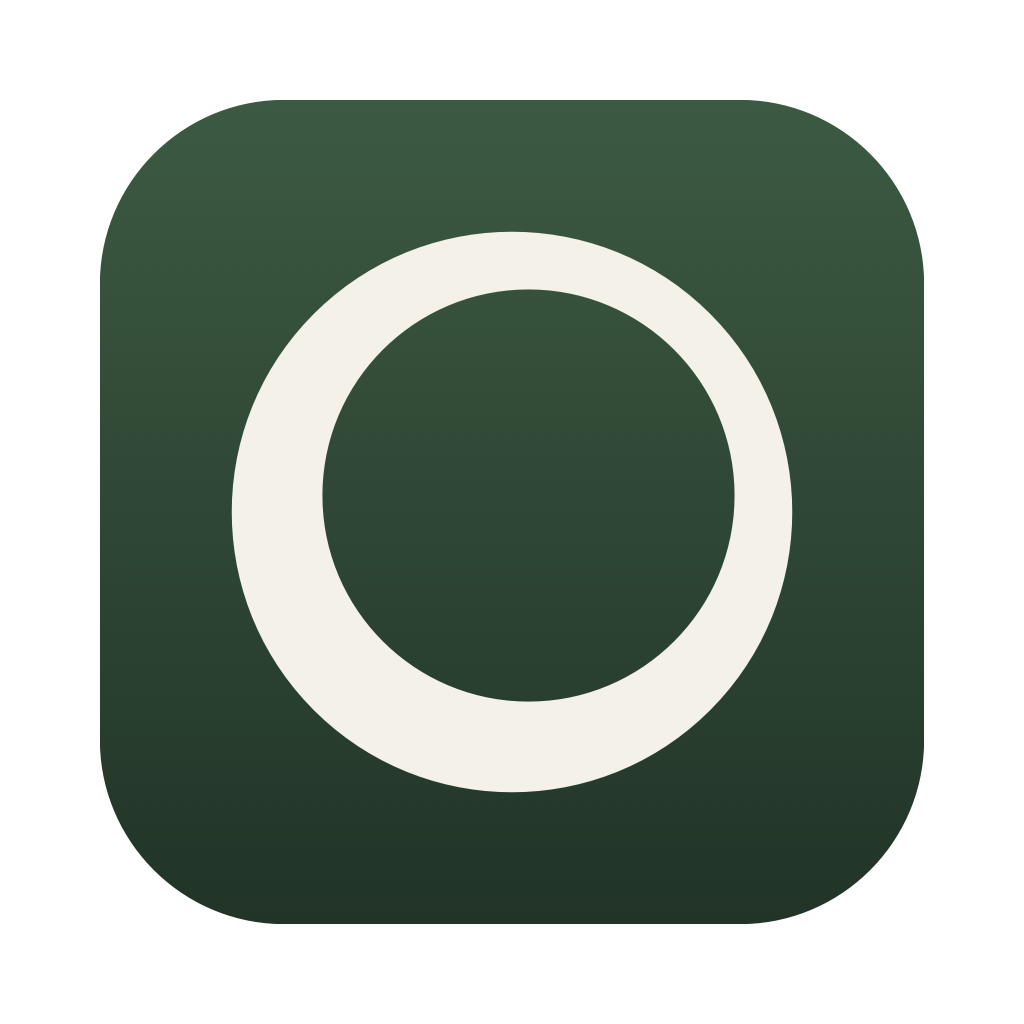
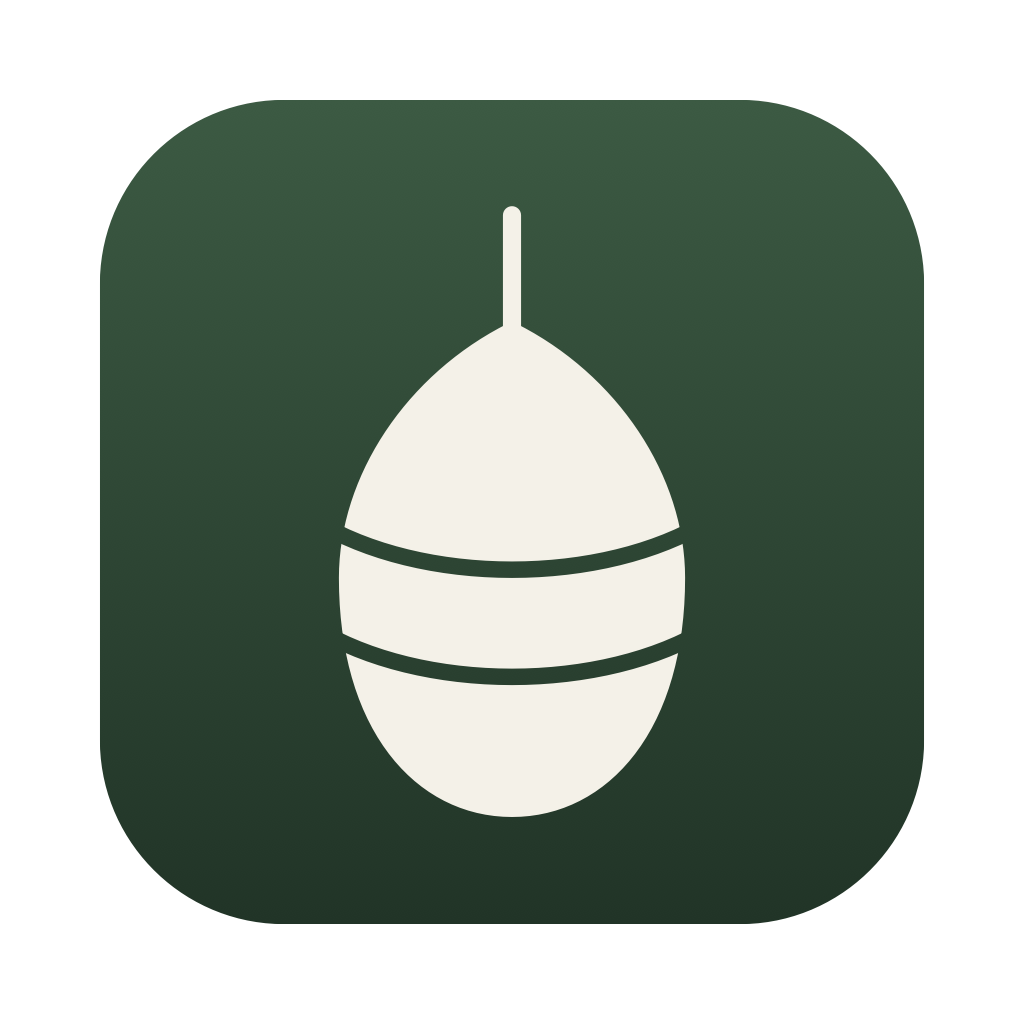
Replace the ring mark with the cocoon (D-014) (#6)
Nine witty candidates rendered as app icon + favicon product images
(dock and browser-tab mockups, favicon size ladder); the human chose the
cocoon: a pod hanging from a thread with two silk wraps -- "hatches
exactly when you need it". Wrap chords refined to curved bands that cross
the pod. All app icon and favicon sizes regenerate from the one script.
D-013 wording neutralized (stray flag references).

Changed region(s): [[0.2188, 0.1875, 0.7812, 0.75], [0.4062, 0.75, 0.5938, 0.8125]]

diff --git a/Scripts/render-icons.swift b/Scripts/render-icons.swift
@@ -1,6 +1,7 @@
 import AppKit
 
-// Regenerates every icon size from the Dormant mark (D-013). Run: swift Scripts/render-icons.swift
+// Regenerates every icon size from the Dormant mark (D-013 system, D-014 mark).
+// Run: swift Scripts/render-icons.swift
 
 let root = URL(fileURLWithPath: FileManager.default.currentDirectoryPath)
 
@@ -8,40 +9,24 @@ let paper = NSColor(srgbRed: 0.9569, green: 0.9451, blue: 0.9098, alpha: 1)
 let plateTop = NSColor(srgbRed: 0.2353, green: 0.3529, blue: 0.2627, alpha: 1)
 let plateBottom = NSColor(srgbRed: 0.1294, green: 0.2039, blue: 0.1529, alpha: 1)
 
-// Mark geometry in unit space (y measured from the top), before centering.
-// Two circles, like the first mark: a paper disc with an offset circular hole (eccentric ring).
-let moonRadius = 0.34
-let terminatorSemi = (x: 0.25, y: 0.25)
-var moonCenter = (x: 0.50, y: 0.51)
-var terminatorCenter = (x: 0.52, y: 0.49)
-
-func inMoon(_ x: Double, _ y: Double) -> Bool {
-  let dc = (x - moonCenter.x) * (x - moonCenter.x) + (y - moonCenter.y) * (y - moonCenter.y)
-  guard dc <= moonRadius * moonRadius else { return false }
-  let de = pow((x - terminatorCenter.x) / terminatorSemi.x, 2)
-    + pow((y - terminatorCenter.y) / terminatorSemi.y, 2)
-  return de > 1
-}
-
-// Shift the mark so its bounding box sits dead center of the plate.
-var minX = 1.0, maxX = 0.0, minY = 1.0, maxY = 0.0
-let steps = 200
-for i in 0..<steps {
-  for j in 0..<steps {
-    let x = (Double(i) + 0.5) / Double(steps)
-    let y = (Double(j) + 0.5) / Double(steps)
-    if inMoon(x, y) {
-      minX = min(minX, x)
-      maxX = max(maxX, x)
-      minY = min(minY, y)
-      maxY = max(maxY, y)
-    }
-  }
-}
-let shift = (x: 0.5 - (minX + maxX) / 2, y: 0.5 - (minY + maxY) / 2)
-moonCenter = (moonCenter.x + shift.x, moonCenter.y + shift.y)
-terminatorCenter = (terminatorCenter.x + shift.x, terminatorCenter.y + shift.y)
-print(String(format: "centering shift: %+.4f, %+.4f", shift.x, shift.y))
+// Mark geometry in unit space (y measured from the top): a cocoon hanging from a
+// thread — tapered pod with two wrap chords. Drawn bbox-centered.
+let threadTop = 0.14
+let threadBottom = 0.32
+let threadWidth = 0.022
+let podStart = (x: 0.50, y: 0.28)
+let podSegs: [((Double, Double), (Double, Double), (Double, Double))] = [
+  ((0.62, 0.34), (0.70, 0.46), (0.70, 0.58)),
+  ((0.70, 0.76), (0.61, 0.86), (0.50, 0.86)),
+  ((0.39, 0.86), (0.30, 0.76), (0.30, 0.58)),
+  ((0.30, 0.46), (0.38, 0.34), (0.50, 0.28)),
+]
+let podStroke = 0.02
+let chords = [0.54, 0.67]
+let chordSpan = (x0: 0.26, x1: 0.74)
+let chordLift = 0.03
+let chordSag = 0.05
+let chordWidth = 0.02
 
 enum Variant {
   case appIcon
@@ -84,32 +69,47 @@ func render(size: Int, variant: Variant) -> NSBitmapImageRep {
     NSPoint(x: origin + CGFloat(x) * side, y: origin + (1 - CGFloat(y)) * side)
   }
 
-  // Eclipse ring: paper disc with an offset circular bite cleared out
-  // in a transparency layer, so edges stay clean over the plate gradient.
+  // Cocoon: paper thread, paper pod, wrap chords cut out — all in one
+  // transparency layer, so edges stay clean over the plate gradient.
   NSGraphicsContext.saveGraphicsState()
   plate.addClip()
   ctx.cgContext.beginTransparencyLayer(auxiliaryInfo: nil)
 
-  let c = p(moonCenter.x, moonCenter.y)
-  let moon = NSBezierPath(
-    ovalIn: NSRect(
-      x: c.x - moonRadius * side, y: c.y - moonRadius * side,
-      width: 2 * moonRadius * side, height: 2 * moonRadius * side
-    )
-  )
-  paper.setFill()
-  moon.fill()
+  let thread = NSBezierPath()
+  thread.move(to: p(0.5, threadTop))
+  thread.line(to: p(0.5, threadBottom))
+  thread.lineCapStyle = .round
+  thread.lineWidth = threadWidth * side
+  paper.setStroke()
+  thread.stroke()
 
-  let terminatorRect = NSRect(
-    x: origin + CGFloat(terminatorCenter.x - terminatorSemi.x) * side,
-    y: origin + (1 - CGFloat(terminatorCenter.y + terminatorSemi.y)) * side,
-    width: CGFloat(2 * terminatorSemi.x) * side,
-    height: CGFloat(2 * terminatorSemi.y) * side
-  )
+  let pod = NSBezierPath()
+  pod.move(to: p(podStart.x, podStart.y))
+  for (c1, c2, end) in podSegs {
+    pod.curve(to: p(end.0, end.1), controlPoint1: p(c1.0, c1.1), controlPoint2: p(c2.0, c2.1))
+  }
+  pod.close()
+  pod.lineJoinStyle = .round
+  pod.lineWidth = podStroke * side
+  paper.setStroke()
+  pod.stroke()
+  paper.setFill()
+  pod.fill()
+
   ctx.cgContext.setBlendMode(.clear)
-  ctx.cgContext.addEllipse(in: terminatorRect)
-  ctx.cgContext.fillPath()
+  for y in chords {
+    let chord = NSBezierPath()
+    chord.move(to: p(chordSpan.x0, y - chordLift))
+    chord.curve(
+      to: p(chordSpan.x1, y - chordLift),
+      controlPoint1: p(0.39, y + chordSag), controlPoint2: p(0.61, y + chordSag)
+    )
+    chord.lineCapStyle = .round
+    chord.lineWidth = chordWidth * side
+    chord.stroke()
+  }
   ctx.cgContext.setBlendMode(.normal)
+
   ctx.cgContext.endTransparencyLayer()
   NSGraphicsContext.restoreGraphicsState()
 
@@ -170,6 +170,20 @@ write(render(size: 180, variant: .touch), "site/src/apple-touch-icon.png")
 write(render(size: 512, variant: .appIcon), "site/src/icon-512.png")
 write(render(size: 1024, variant: .appIcon), "site/src/icon-1024.png")
 
+let podPath = """
+  M \(f(podStart.x)) \(f(podStart.y)) \
+  C \(f(podSegs[0].0.0)) \(f(podSegs[0].0.1)), \(f(podSegs[0].1.0)) \(f(podSegs[0].1.1)), \(f(podSegs[0].2.0)) \(f(podSegs[0].2.1)) \
+  C \(f(podSegs[1].0.0)) \(f(podSegs[1].0.1)), \(f(podSegs[1].1.0)) \(f(podSegs[1].1.1)), \(f(podSegs[1].2.0)) \(f(podSegs[1].2.1)) \
+  C \(f(podSegs[2].0.0)) \(f(podSegs[2].0.1)), \(f(podSegs[2].1.0)) \(f(podSegs[2].1.1)), \(f(podSegs[2].2.0)) \(f(podSegs[2].2.1)) \
+  C \(f(podSegs[3].0.0)) \(f(podSegs[3].0.1)), \(f(podSegs[3].1.0)) \(f(podSegs[3].1.1)), \(f(podSegs[3].2.0)) \(f(podSegs[3].2.1)) \
+  Z
+  """
+let chordLines = chords.map { y in
+  """
+    <path d="M \(f(chordSpan.x0)) \(f(y - chordLift)) C \(f(0.39)) \(f(y + chordSag)), \(f(0.61)) \(f(y + chordSag)), \(f(chordSpan.x1)) \(f(y - chordLift))" fill="none" stroke="black" stroke-width="\(f(chordWidth))" stroke-linecap="round"/>
+  """
+}.joined(separator: "\n")
+
 let svg = """
   <svg xmlns="http://www.w3.org/2000/svg" viewBox="0 0 64 64">
     <defs>
@@ -177,14 +191,15 @@ let svg = """
         <stop offset="0" stop-color="#3c5a43"/>
         <stop offset="1" stop-color="#213427"/>
       </linearGradient>
-      <mask id="moon">
+      <mask id="mark">
         <rect width="64" height="64" fill="black"/>
-        <circle cx="\(f(moonCenter.x))" cy="\(f(moonCenter.y))" r="\(f(moonRadius))" fill="white"/>
-        <ellipse cx="\(f(terminatorCenter.x))" cy="\(f(terminatorCenter.y))" rx="\(f(terminatorSemi.x))" ry="\(f(terminatorSemi.y))" fill="black"/>
+        <line x1="\(f(0.5))" y1="\(f(threadTop))" x2="\(f(0.5))" y2="\(f(threadBottom))" stroke="white" stroke-width="\(f(threadWidth))" stroke-linecap="round"/>
+        <path d="\(podPath)" fill="white" stroke="white" stroke-width="\(f(podStroke))" stroke-linejoin="round"/>
+  \(chordLines)
       </mask>
     </defs>
     <rect width="64" height="64" rx="14.08" fill="url(#plate)"/>
-    <rect width="64" height="64" fill="#f4f1e8" mask="url(#moon)"/>
+    <rect width="64" height="64" fill="#f4f1e8" mask="url(#mark)"/>
   </svg>
   """
 try! svg.write(to: root.appendingPathComponent("site/src/favicon.svg"), atomically: true, encoding: .utf8)

diff --git a/docs/status.md b/docs/status.md
@@ -15,25 +15,23 @@ rule 4. Keep exactly one phase `in progress`.
 
 ## Current handoff
 
-- **Phase:** 4 — launch. Phase 3 (promo site) is merged to `dev` (PR #3).
-- **Done this session:** (1) **D-011** — root-caused the invisible "Dormant ▸" Finder menu: `pkd`
-  rejected the appex ("plug-ins must be sandboxed"), so it was never registered anywhere.
-  `DormantFinder` now carries App Sandbox (new `DormantFinder.entitlements` + `project.yml`
-  wiring); the app stays unsandboxed. Extension display name fixed to "Dormant" (was
-  "DormantFinder"), so the Finder submenu reads "Dormant ▸". (2) **D-012** — Clean stays one-way
-  (the human's choice over a rebuild path): every Finder/app action now registers its project in
-  the registry (`ActionPresenter.resolveRecord`), fixing "no entry in the app" after a Finder Clean;
-  the Clean preview states the removal is permanent and that development state is rebuilt with the
-  project's own dependency commands; Restore stays archive-only. (3) Site: "Coming soon for macOS"
-  CTAs replace the download buttons and the brew line keeps its command with a disabled Copy
-  button plus a "Not published yet" note (still zero client JS).
-- **Verified:** `Scripts/check.sh` end to end — lint clean, build OK, **89 tests / 12 suites pass**,
-  site builds. Rebuilt Debug appex carries exactly `app-sandbox` + Debug `get-task-allow`;
-  `pluginkit -mAvvv -p com.apple.FinderSync` lists exactly one `com.dormant.Dormant.Finder`
-  ("Display Name = Dormant"). Live Finder test: Clean on `dev-rig` removed `target/` (524K left).
-  Not verified: CLI `open dormant://…` did not reach the running app (Finder's `NSWorkspace`
-  delivery does work — the human's Finder Clean ran through it); note as a possible follow-up.
-- **Landing:** `feature/finder-menu-and-coming-soon` → PR → `dev` (D-007), merged this session.
+- **Phase:** 4 — launch. The icon work is on `feature/icon-cocoon` → PR → `dev` (this session).
+- **Done this session:** (1) **D-014** — new mark, the **cocoon**: nine witty candidates (paused,
+  folder with Z, standby glyph, tucked-in, vacuum bag, tin can, cocoon, hammock, seed) were
+  rendered as app icon + favicon product images (dock and browser-tab mockups, favicon size
+  ladder, contact sheet in `build/icon-concepts/`); the human chose the cocoon — a pod hanging
+  from a thread with two silk wraps, "hatches exactly when you need it". `Scripts/render-icons.swift`
+  redraws it (wrap chords refined to curved bands crossing the pod); every app icon size, favicon
+  and the favicon SVG regenerate from that one script. (2) Scrubbed the stray flag reference from
+  the public repo: the two icon commit bodies reworded via history rewrite (`dev` force-pushed,
+  merged `feature/icon-two-circles` deleted from origin), PR #5 body edited, D-013 wording
+  neutralized. Residual: the phrase still exists inside old commit *file contents* (e.g. D-013's
+  text as committed in `71d5537`) and in PR #5's frozen commit list — a full
+  `git filter-repo` purge would clear those if ever needed.
+- **Verified:** `Scripts/check.sh` end to end — lint (pre-existing Dialogs.swift warnings only),
+  generate, build OK, **89 tests / 12 suites pass**, site builds (8 assets copied). Icon sizes and
+  favicon SVG regenerated from the one script and eyeballed at 1024/512/48/32 px.
+- **Landing:** `feature/icon-cocoon` → PR → `dev` (D-007), this session.
 - **Blocked by:** (1) the manual Finder round trip on the fixed extension (enable in System
   Settings → Extensions (Finder Extensions), relaunch Finder, right-click a project folder);
   (2) human-only GitHub settings for D-007: the `release:patch` / `release:minor` /

diff --git a/docs/decisions.md b/docs/decisions.md
@@ -368,7 +368,7 @@ Clean stays one-way. **The human chose: Clean stays one-way.**
 **Cost / risk:** there is no in-app undo for a Clean; the dialog warning and the classification
 invariant (only confidently regenerable paths are ever removed) are the guardrails.
 
-## D-013: Icon system — one crescent-moon mark, script-rendered at every size
+## D-013: Icon system — one mark, script-rendered at every size
 
 **Date:** 2026-09-26
 
@@ -380,8 +380,8 @@ README).
 
 - **Mark:** two circles — a paper (`#f4f1e8`) disc with an offset circular hole (a tapering
   ring), centered by its bounding box — on a hibernate (`#3c5a43` → `#213427`) squircle. The first
-  mark, cleaned up: no spark, no seam. A crescent moon was tried and rejected (reads as the
-  Pakistan flag crescent); one idea, no ornament; readable down to 16px.
+  mark, cleaned up: no spark, no seam. A crescent moon was tried and rejected (at icon sizes it
+  reads as a flag crescent); one idea, no ornament; readable down to 16px.
 - **One source, script-rendered:** `Scripts/render-icons.swift` (AppKit/CoreGraphics, no
   dependencies) draws the mark and writes every raster size. The design lives in the script; no
   binary master file.
@@ -402,8 +402,38 @@ README).
   sizes from it; the script is the master.
 - **A folder/archive glyph** — too busy at favicon sizes; the eclipse carries the "project going
   to sleep" promise alone.
-- **A crescent moon** — tested and cut: reads as the Pakistan flag crescent at icon sizes.
+- **A crescent moon** — tested and cut: at icon sizes it reads as a flag crescent.
 
 **Cost / risk:** the design is code — visual tweaks mean editing the script and re-running it
 (`swift Scripts/render-icons.swift`); every raster size and the favicon SVG regenerate from that
 one geometry, so nothing can drift out of step.
+
+## D-014: Mark change — the cocoon (supersedes the mark chosen in D-013)
+
+**Date:** 2026-09-27
+
+**Context:** The ring mark was clean but said nothing. The human asked for a witty mark and
+reviewed nine script-rendered candidates — paused, folder with Z, standby glyph, tucked-in,
+vacuum bag, tin can, cocoon, hammock, seed — each delivered as app icon and favicon product
+images (dock and browser-tab mockups, favicon size ladder). The human chose the cocoon.
+
+**Decision:**
+
+- **Mark:** a cocoon hanging from a thread — a tapered paper pod with two wrap chords, on the
+  D-013 hibernate plate. The joke is the product promise: the project is dormant and hatches
+  exactly when you need it (Restore).
+- Everything else in D-013 stands: one idea, no ornament, bbox-centered, every raster size and
+  the favicon SVG regenerated from `Scripts/render-icons.swift`.
+
+**Considered and rejected:**
+
+- **Paused (pause bars)** — reads as a media control, not this product.
+- **Folder with a Z** — D-013 already cut a folder glyph as too busy at favicon sizes.
+- **Standby glyph** — reads as "power", not "sleep".
+- **Tucked-in, vacuum bag, tin can, hammock** — charming at 512 px, mush at 16 px.
+- **Seed** — "dormant is what seeds do" only lands with the caption.
+- **The ring mark** — correct, and boring; the human asked for wit.
+
+**Cost / risk:** the wrap chords fade below ~24 px (the pod-and-thread silhouette still reads);
+a cocoon is less literal than a folder for a file tool — the tagline and site copy carry the
+metaphor.
